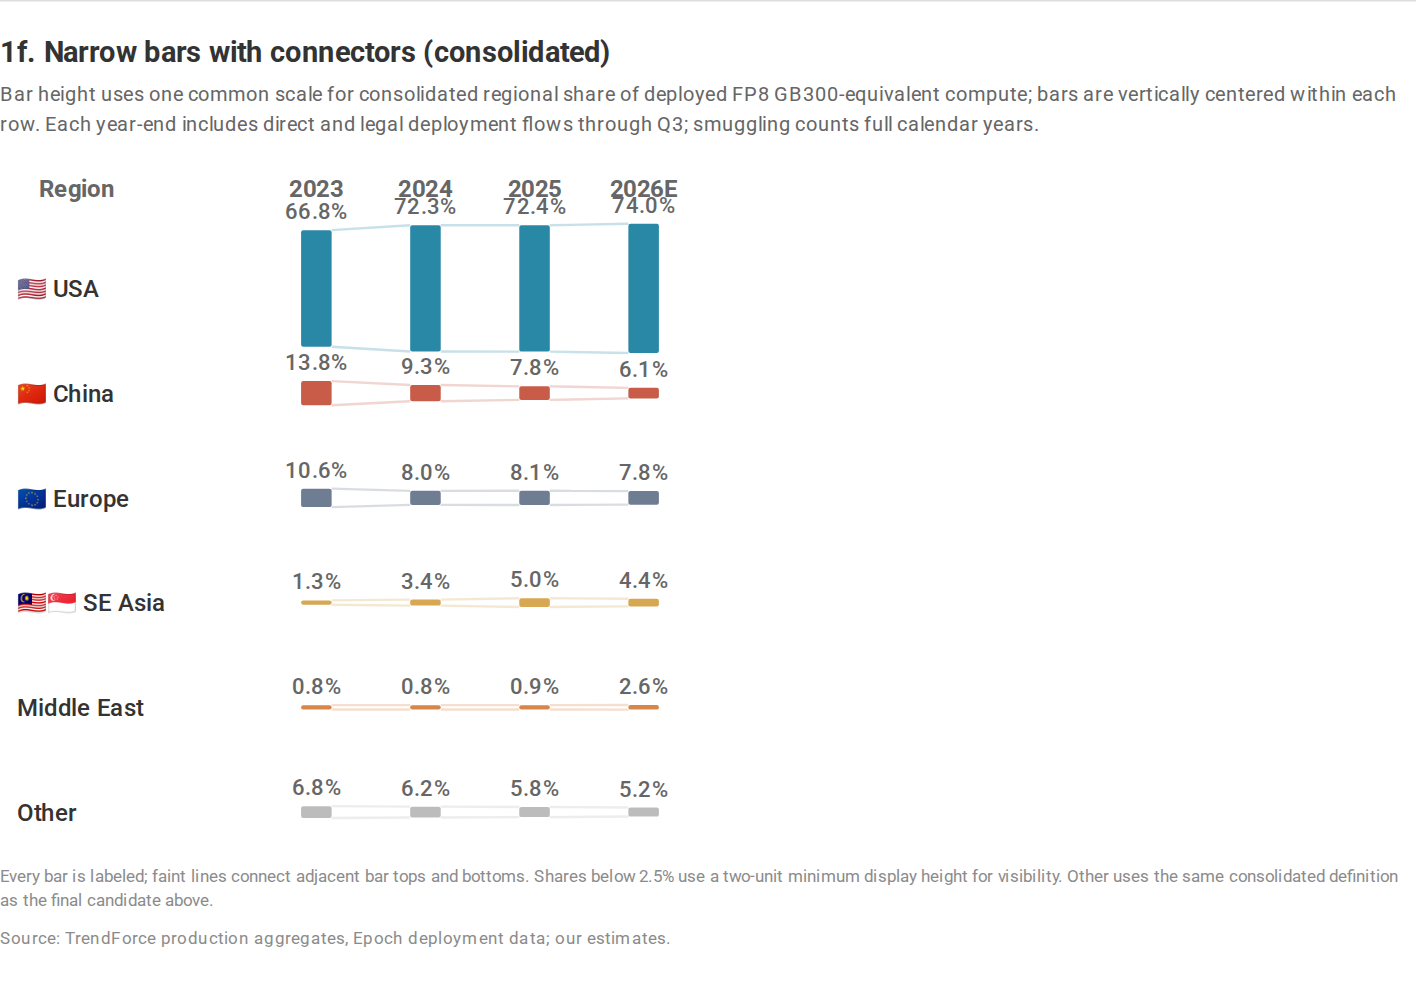
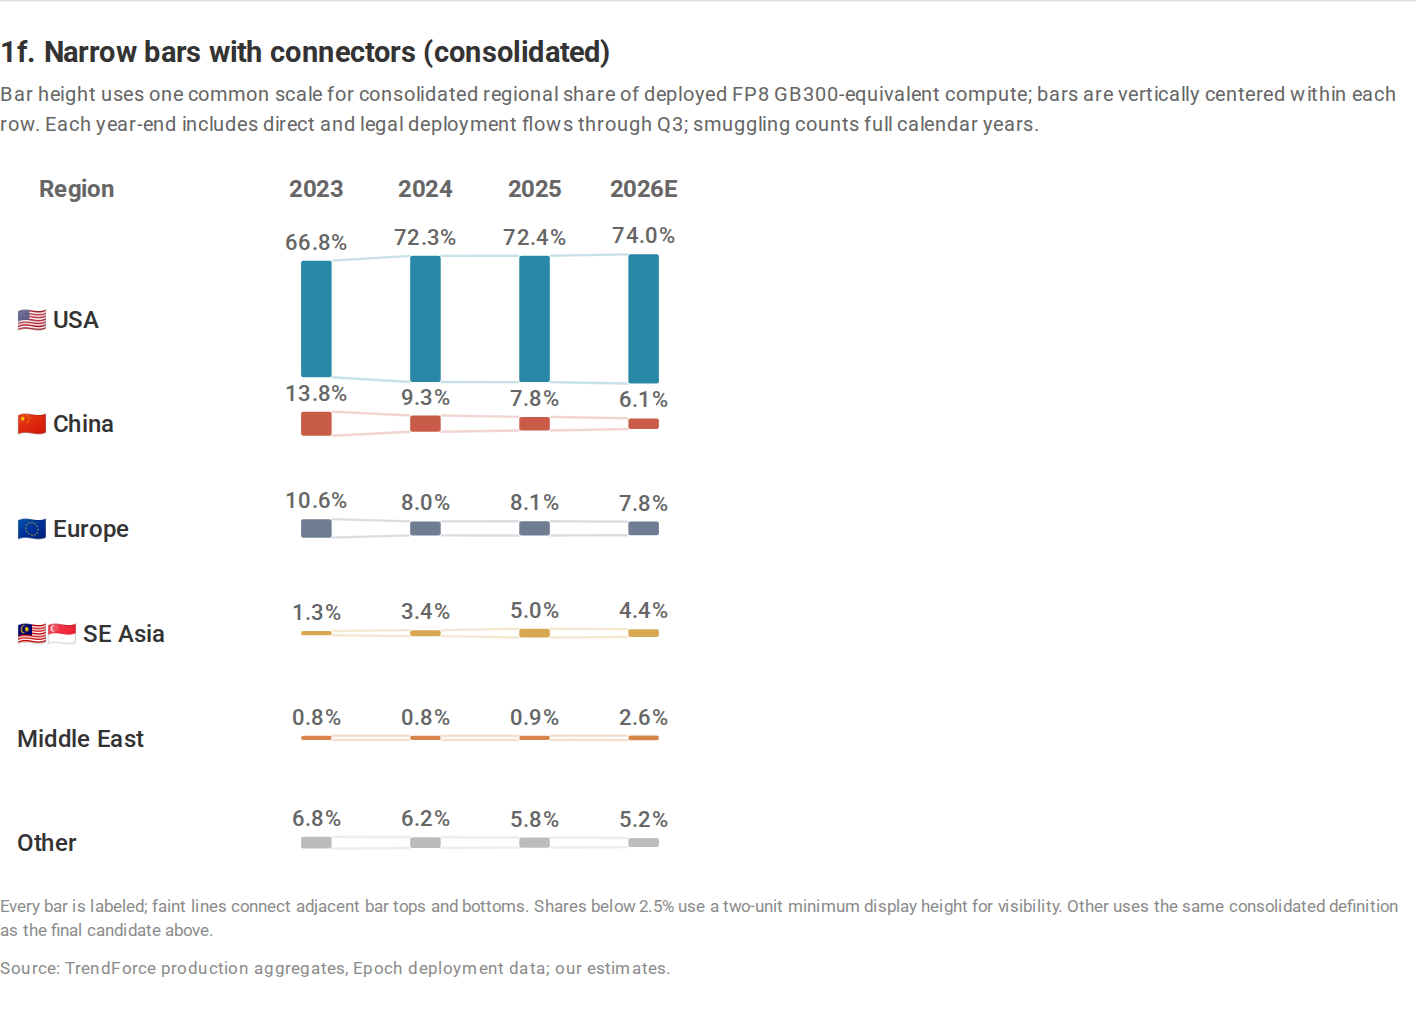
Add space below connector chart headers

diff --git a/docs/compute-over-time.html b/docs/compute-over-time.html
@@ -563,11 +563,11 @@
   }
 
   function drawNarrowBarConnectors() {
-    const svg = svgFor("chart-final-1f", 320, "Six consolidated regional AI compute share trends shown as slim centered annual bars with lines tracing their top and bottom edges, 2023 to 2026");
-    svg.setAttribute("viewBox", "0 0 330 320");
+    const svg = svgFor("chart-final-1f", 334, "Six consolidated regional AI compute share trends shown as slim centered annual bars with lines tracing their top and bottom edges, 2023 to 2026");
+    svg.setAttribute("viewBox", "0 0 330 334");
     const consolidated = finalConsolidatedShares();
     const centers = [145, 195, 245, 295];
-    const rowStart = 60;
+    const rowStart = 74;
     const rowGap = 48;
     const narrowBarWidth = 14;
     const connectorOpacity = .24;

diff --git a/runs/ts-v1/chart-prototypes/build_log.md b/runs/ts-v1/chart-prototypes/build_log.md
@@ -107,3 +107,9 @@
 - Local browser QA rendered all twelve SVG charts without console or page errors, found no horizontal overflow at 390 pixels, and refreshed `variant-1f.png`. Visual inspection found no clipped labels, overlaps, center lines, or residual filled bands.
 - Published in commit `dd0f756` (`Refine centered connector chart`) and pushed to `main`.
 - GitHub Pages updated on the fourth polling attempt. Live browser QA returned HTTP 200 and confirmed the USA–China–Europe order, 24 slim centered bars, 36 envelope lines with no additional row strokes, 24 value labels, the two-unit small-bar minimum, zero browser errors, and the noindex directive.
+
+## Consolidated narrow-bar connector header spacing (2026-08-20)
+
+- Revised variant 1f in place by moving the entire six-row content block down 14 view-box units, from a 60-unit to a 74-unit row start.
+- Increased the view-box height by the same 14 units, preserving the lower margin, row spacing, bar geometry, connectors, labels, data, colors, flags, and row order.
+- Local browser QA rendered all twelve SVG charts without console or page errors, found no horizontal overflow at 390 pixels, and refreshed `variant-1f.png`. Visual inspection confirmed a clear gap between the year headers and the USA labels with no new clipping or overlap.
